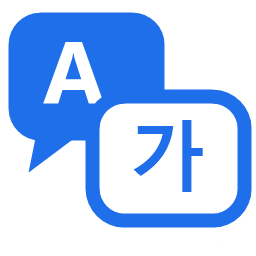
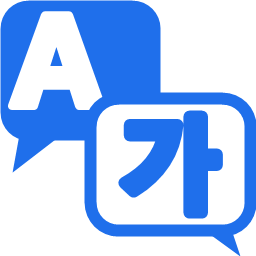
fix(app): 트레이 아이콘 글자 A·가를 최대한 크게, 획을 굵게

diff --git a/crates/ct-app/src/ui/tray.rs b/crates/ct-app/src/ui/tray.rs
@@ -250,12 +250,12 @@ mod tests {
         let at = |x: usize, y: usize| &px[(y * 32 + x) * 4..(y * 32 + x) * 4 + 4];
         assert_eq!(at(0, 0)[3], 0, "top-left corner transparent");
         assert_eq!(at(31, 0)[3], 0, "top-right corner transparent");
-        // Back bubble: opaque blue near its left edge.
-        let blue = at(3, 10);
+        // Back bubble: opaque blue right of the "A".
+        let blue = at(17, 4);
         assert_eq!(blue[3], 0xFF);
         assert!(blue[2] > 0xC0 && blue[0] < 0x60, "blue bubble {blue:?}");
         // Front bubble: opaque white inside, left of the "가" glyph.
-        let white = at(15, 21);
+        let white = at(13, 20);
         assert_eq!(white, &[0xFF, 0xFF, 0xFF, 0xFF]);
     }
 }
